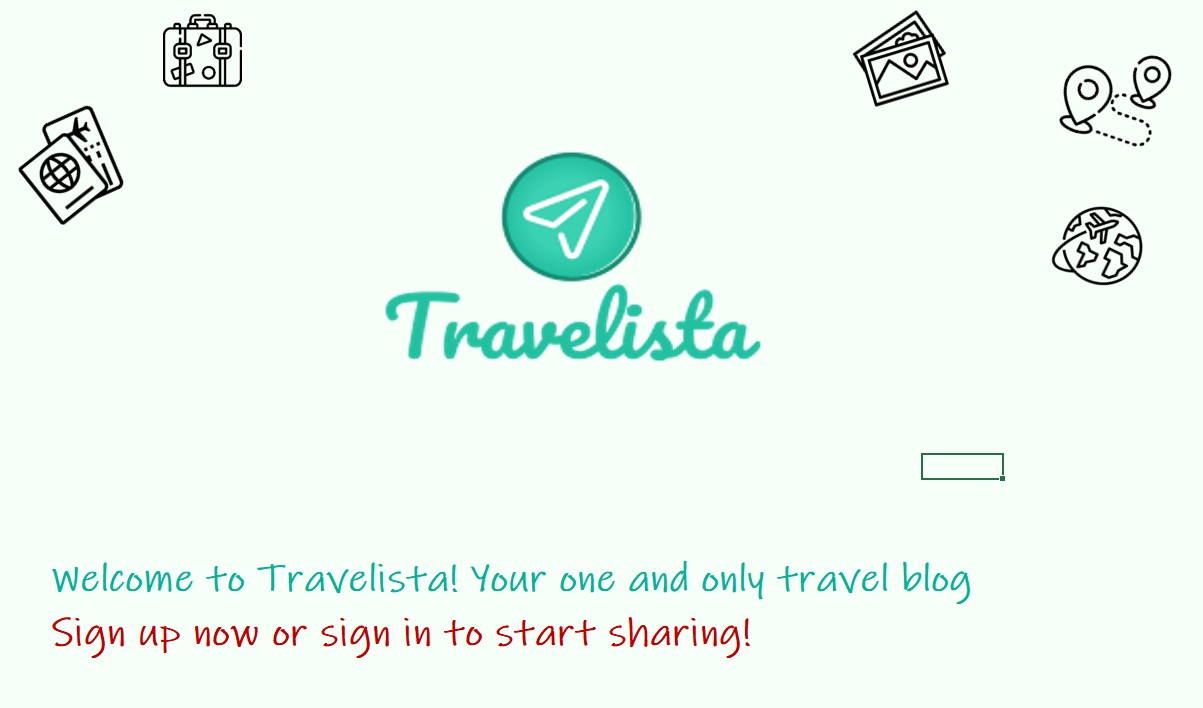
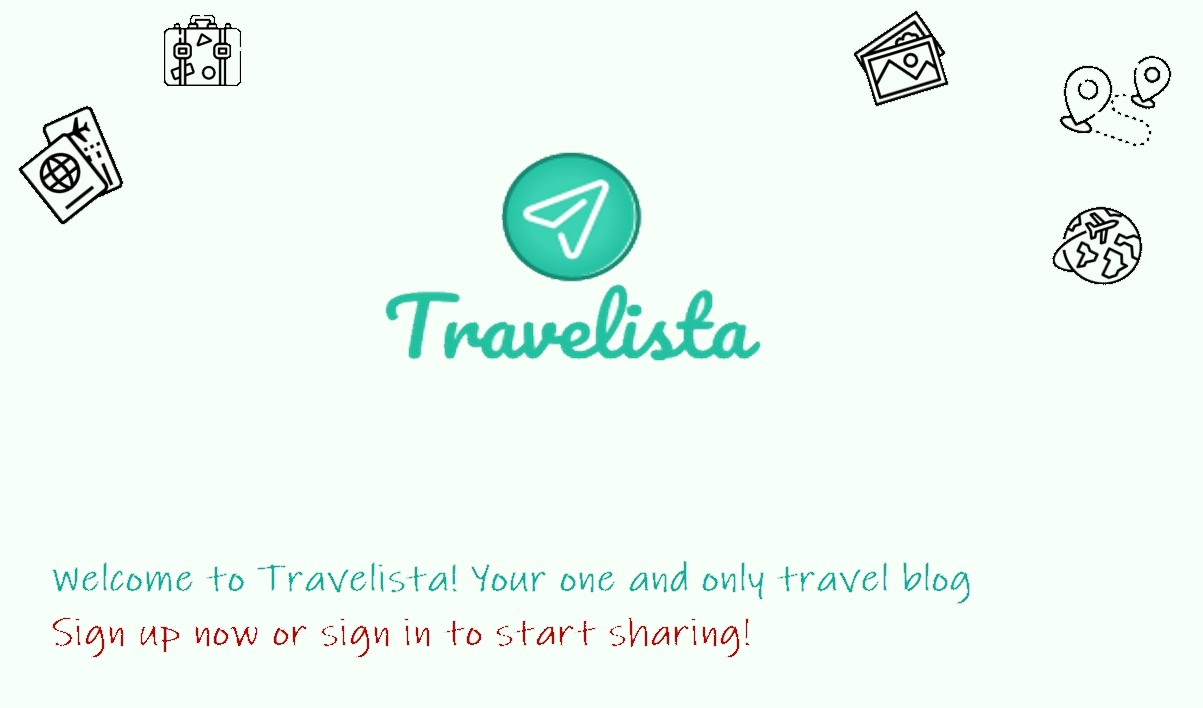
Updated index template

diff --git a/templates/shared/base.html b/templates/shared/base.html
@@ -3,7 +3,7 @@
 <head>
     <meta charset="UTF-8">
     <title>Travelista</title>
-    <link rel="icon" type="image/png" href="/media/favicon.jpg">
+    <link rel="icon" type="image/png" href="/media/favicon.png">
     <link rel="stylesheet" href="https://stackpath.bootstrapcdn.com/bootstrap/4.3.1/css/bootstrap.min.css"
           integrity="sha384-ggOyR0iXCbMQv3Xipma34MD+dH/1fQ784/j6cY/iJTQUOhcWr7x9JvoRxT2MZw1T" crossorigin="anonymous">
     <link rel="stylesheet" href="https://stackpath.bootstrapcdn.com/font-awesome/4.7.0/css/font-awesome.min.css"

diff --git a/templates/shared/header.html b/templates/shared/header.html
@@ -1,4 +1,4 @@
-<nav class="navbar navbar-expand-md navbar-light bg-light" style="margin-bottom:2%">
+<nav class="navbar navbar-expand-md navbar-light" style="background-color: #3bd1b3 " >
     <button class="navbar-toggler" type="button" data-toggle="collapse" data-target="#navbarNavDropdown"
             aria-controls="navbarNavDropdown" aria-expanded="false" aria-label="Toggle navigation">
         <span class="navbar-toggler-icon"></span>

diff --git a/templates/index.html b/templates/index.html
@@ -1,7 +1,7 @@
 {% extends 'shared/base.html' %}
 {% block content %}
-    <div class="jumbotron parent">
-        <img style="width: 100%"
+    <div class="text-center">
+        <img style="width: 80%"
              src="../media/index.jpg"
              alt="Index page">
     </div>

diff --git a/Travel_blog/urls.py b/Travel_blog/urls.py
@@ -1,7 +1,10 @@
+from django.conf import settings
+from django.conf.urls.static import static
 from django.contrib import admin
 from django.urls import path, include
 
 urlpatterns = [
     path('admin/', admin.site.urls),
     path('', include('travel_app.urls')),
-]
+] + static(settings.MEDIA_URL, document_root=settings.MEDIA_ROOT)
+
